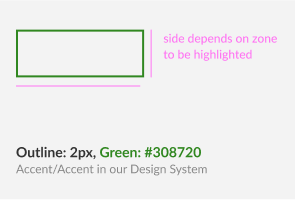
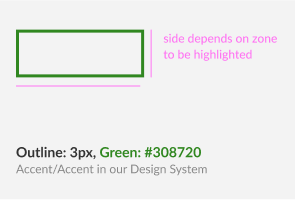
Minor update - highlight outline updated to 3px

Changed region(s): [[0.061, 0.15, 0.4881, 0.39], [0.2441, 0.75, 0.2746, 0.78]]

diff --git a/docs/development/contribution-documentation/documentation-style-guide/README.md b/docs/development/contribution-documentation/documentation-style-guide/README.md
@@ -412,9 +412,9 @@ When you take screenshots:
 
 ### Highlight specific areas and add numbered labels
 
-You can highlight a specific area of a screenshot to draw the reader's attention to it. Additionally, add numbered labels to refer to specific parts of the screenshot in the documentation text. These should, however, be used sparingly, since any future changes to the interface require the highlighted areas and labels to be manually added to each updated screenshot.
+You can highlight a specific area of a screenshot to draw the reader's attention to it. Additionally, add numbered labels to refer to specific parts of the screenshot in the documentation text. These should be used sparingly since any future changes to the interface require the highlighted areas and labels to be manually added to each updated screenshot.
 
-A highlighted area should be marked with a green rectangle (2px width, *Accent/Accent* color in our design system: #308720). The size of the area will naturally depend on the size of the area you wish you highlight.
+A highlighted area should be marked with a green rectangle (3px width, *Accent/Accent* color in our design system: #308720). The size of the area will naturally depend on the size of the area you wish you highlight.
 
 ![screenshot_highlights_example](screenshot_area_highlight.png)
 
